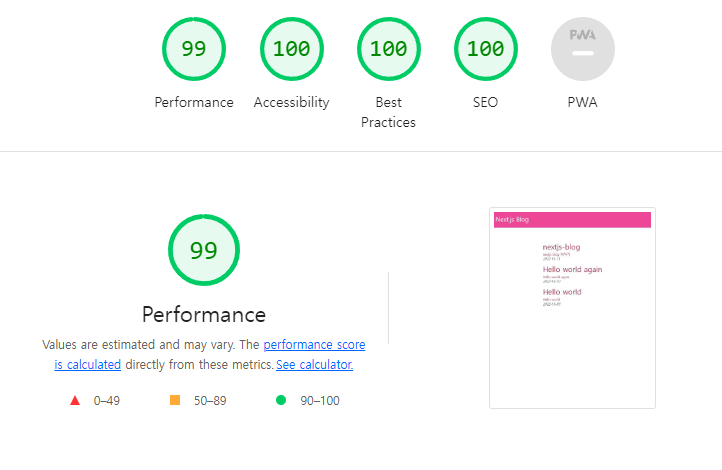
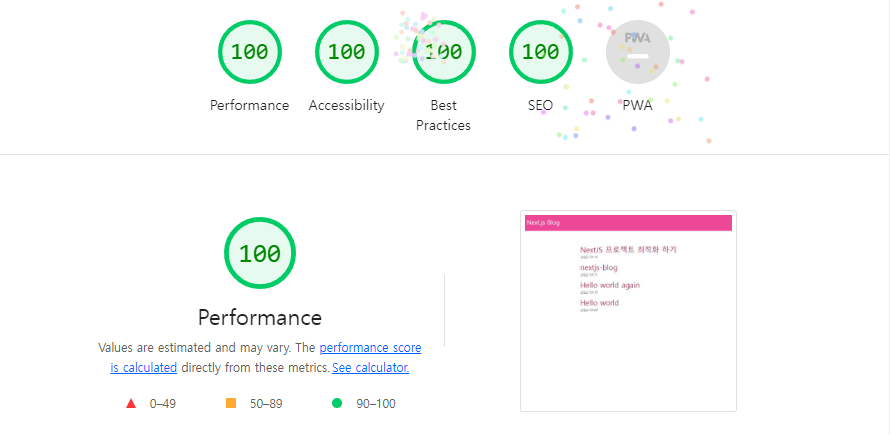
Doc: next 최적화 캐시 보충

diff --git a/blog/nextjs-optimization.md b/blog/nextjs-optimization.md
@@ -29,12 +29,12 @@ date: '2022-10-14'
 const Meta = () => {
   return (
     <>
-      <meta charSet='utf-8' />
+      <meta charSet="utf-8" />
       <meta
-        name='viewport'
-        content='width=device-width, initial-scale=1, shrink-to-fit=no'
+        name="viewport"
+        content="width=device-width, initial-scale=1, shrink-to-fit=no"
       />
-      <meta name='keywords' content='nextjs, 지니, 블로그' />
+      <meta name="keywords" content="nextjs, 지니, 블로그" />
       // ...
     </>
   );
@@ -51,7 +51,7 @@ import Meta from '@src/components/Meta';
 
 export default function Document() {
   return (
-    <Html lang='ko'>
+    <Html lang="ko">
       <Head>
         <Meta />
       </Head>
@@ -130,9 +130,56 @@ export default function Document() {
 
 - 기본적인 번들인 것 같아서 트리 쉐이킹하진 않았다.
 
+### 5. 캐싱 이용하기
+
+#### swr
+
+[swr](https://swr.vercel.app/ko)을 이용하여 캐싱을 이용하였다.
+
+> swr: 캐시(스태일)로부터 데이터를 반환한 후, fetch 요청(재검증)을 하고, 최종적으로 최신화된 데이터를 가져오는 전략
+
+1. fetcher 함수를 생성
+2. 부모 컴포넌트에 `<SWRConfig value={{ fallback }}>`을 감싼 뒤
+3. 사용하고자 하는 컴포넌트나 페이지에 (부모 컴포넌트의 자식 컴포넌트) useSWR 훅을 사용
+   - 문법 `const { data, error } = useSWR(key, fetcher, 옵션)`
+   - key: 요청을 위한 **고유한 키** 문자열(또는 함수 / 배열 / null)
+   - fetcher: (옵션) 데이터를 가져오기 위한 함수를 반환하는 Promise
+   - 여기의 fetcher는 SWR의 key를 받고 데이터를 반환하는 비동기 함수이다
+   - `key`는 고유하므로 어디에서든 (페이지든, 컴포넌트든) 원한다면 데이터를 꺼내쓸 수 있다.
+   - 사이트의 특성에 따라 옵션을 자유롭게 부여한다. `ex: revalidateOnFocus = false`
+
+#### swr으로 캐시 확인하기
+
+캐시가 잘 담겼는지 궁금하다면 캐시 안을 확인해볼 수 있다.
+메인 화면의 `/api/posts`라는 키를 가진 `Allposts`가 캐시에 잘 담겼는지 확인해보았다. 해당 페이지에서 확인할 수 있었지만, 어느 곳에서도 캐시가 사라지지 않고 잘 담긴다는 것을 확인해보기 위해 일부러 `slug` 단일 페이지에서 `Allposts`캐시를 확인해보기로 했다.
+
+1. 먼저 `import { useSWRConfig } from 'swr';` 를 import 한다.
+2. ```tsx
+   const PostContent = () => {
+   const { cache } = useSWRConfig();
+   const { query } = useRouter();
+   const { data: post, error } = useSWR(
+     `/api/posts/${query.slug || null}`,
+     fetcher
+   );
+
+   const check = cache.get('/api/posts');
+   console.log(check);
+   //...
+   ```
+
+   - cache.get('확인하고 싶은 key')를 하여 캐시를 get 해올 수 있다.
+
+3. 캐시가 담기기 전에는 undefined로 아무것도 담기지 않았다.
+   ![캐시가 담기기 전](./images/cashetest1.png)
+4. 캐시를 담을 수 있도록 `/api/posts` key를 갖고 있는 메인 페이지로 이동했다가 되돌아오면 캐시가 담겨있는 것을 확인할 수 있다.
+   ![캐시가 담긴 후](./images/cashetest2.png)
+
 ## 최적화 이후, lighthouse 결과
 
 ![리팩터링후](./images/after-refactor.png)
+
+- 올 100을 맞으면 lighthouse가 꽃가루까지 날려준다.
 
 ## Reference
 
